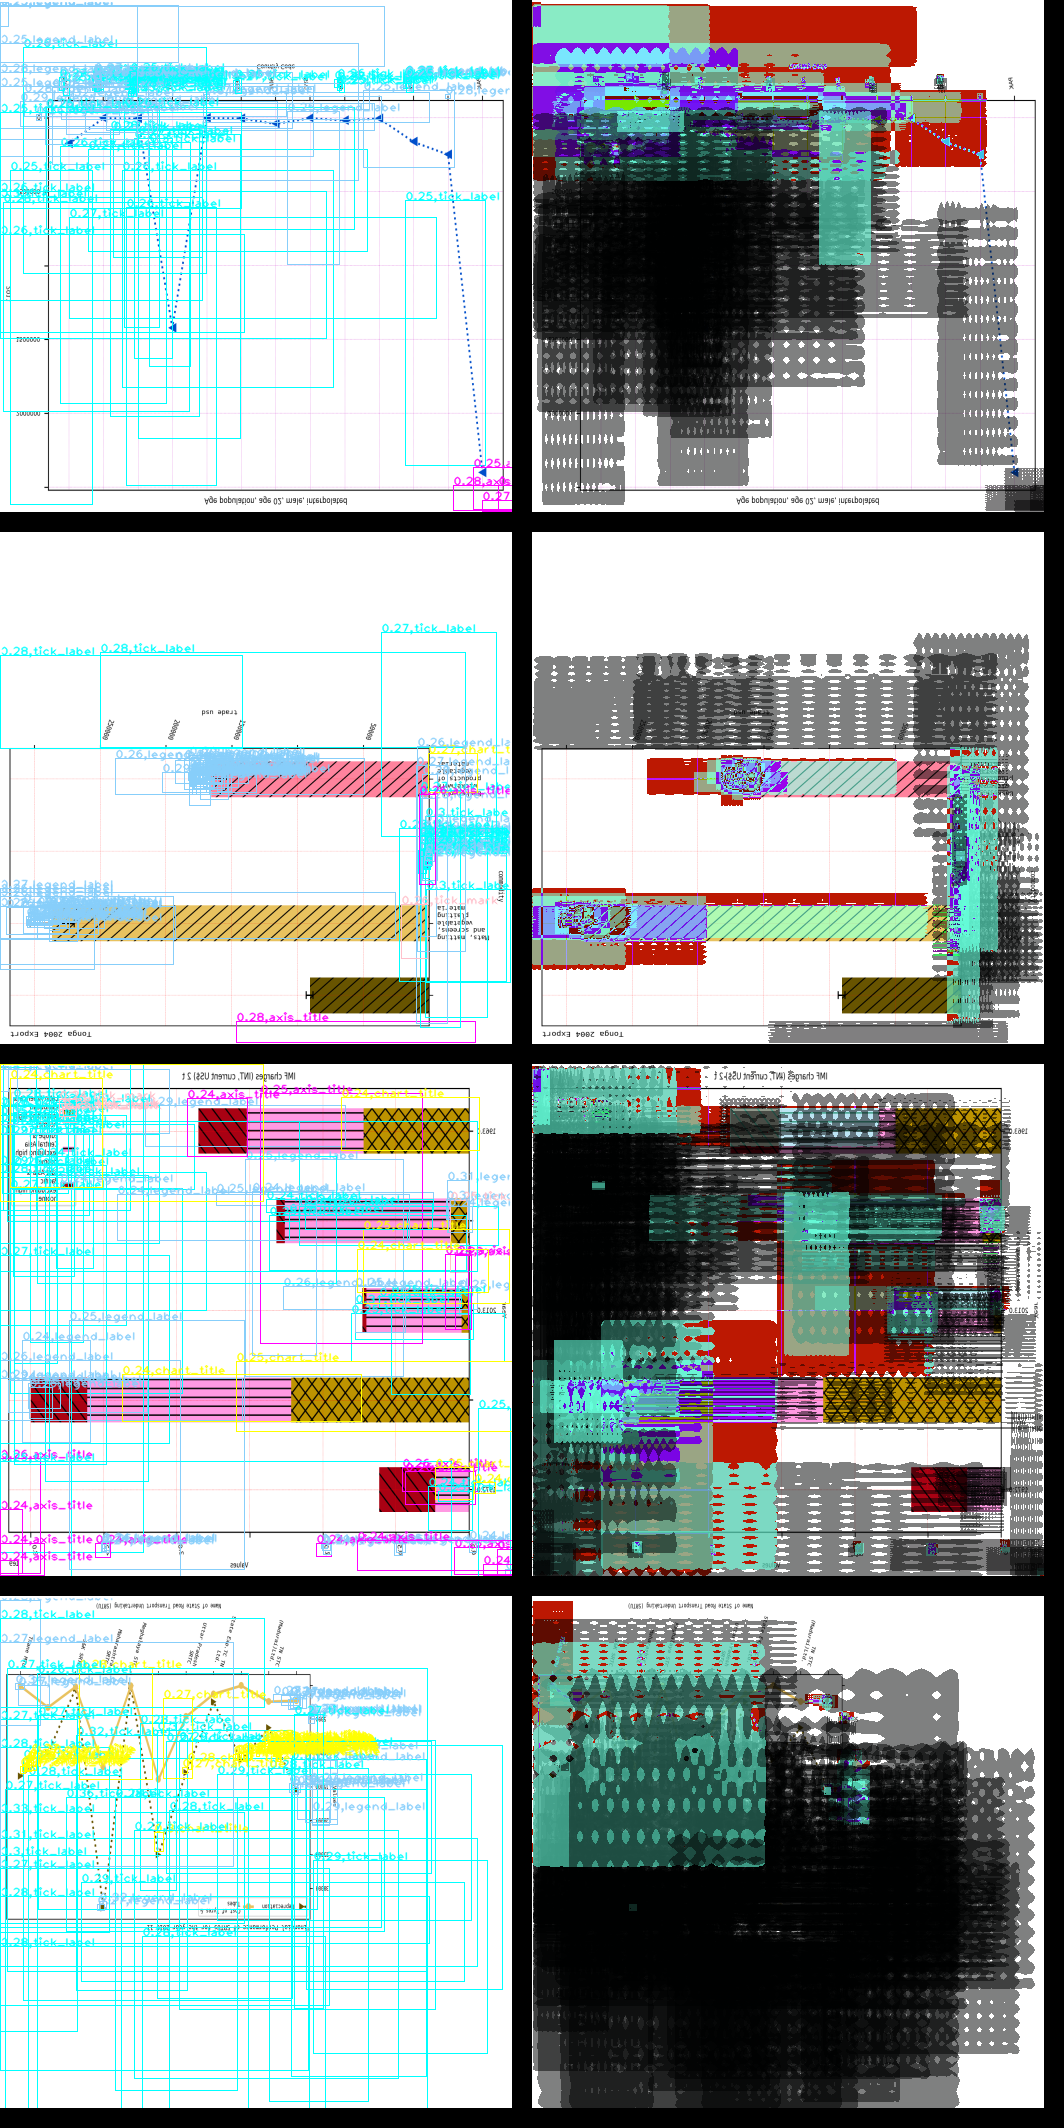
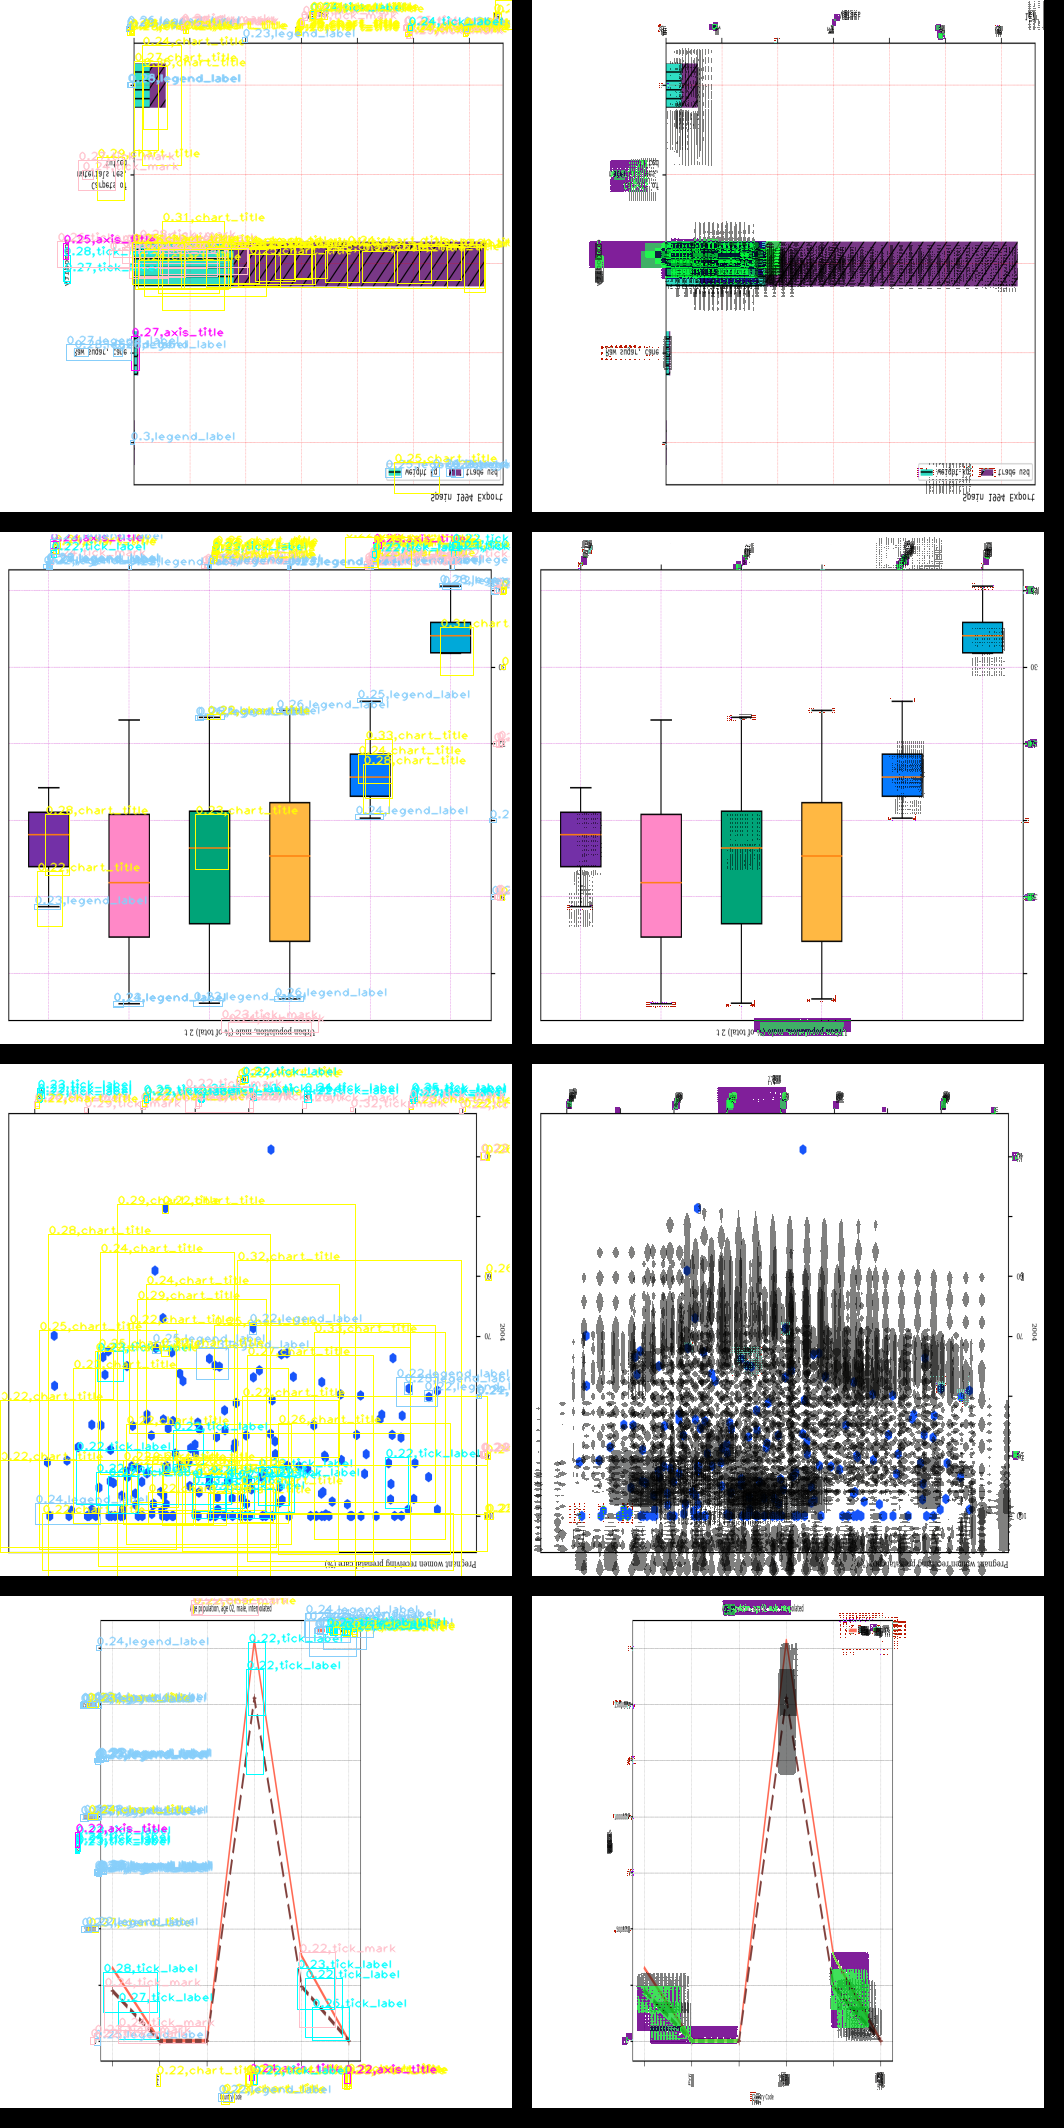
update

diff --git a/MaskRCNN/op.py b/MaskRCNN/op.py
@@ -37,9 +37,9 @@ class Operator:
         self.epoch = epoch 
         params = [p for p in self.model.parameters() if p.requires_grad]
 
-        self.optimizer = torch.optim.SGD(params, lr=self.lr,
-                                momentum=0.9, weight_decay=0.0005)
-        # self.optimizer = optim.Adam(self.model.parameters(), lr = self.lr)
+        # self.optimizer = torch.optim.SGD(params, lr=self.lr,
+        #                         momentum=0.9, weight_decay=0.0005)
+        self.optimizer = optim.Adam(self.model.parameters(), lr = self.lr)
         self.writer = writer
 
         self.train_data = ChartDataset(img_folder = img_path+"/train/", gt_folder = gt_path)
@@ -58,6 +58,13 @@ class Operator:
 
         for ep in range(self.epoch):
             self.model.train()
+
+            if ep == int(self.epoch //3):
+                self.lr = self.lr/10
+                self.optimizer = optim.Adam(self.model.parameters(), lr = self.lr)
+            if ep == int(self.epoch*2//3):
+                self.lr = self.lr/10
+                self.optimizer = optim.Adam(self.model.parameters(), lr = self.lr)
 
 
             for idi, (images, targets) in enumerate(self.dataloader):

diff --git a/MaskRCNN/utils0.py b/MaskRCNN/utils0.py
@@ -125,7 +125,7 @@ def vis(img, r_dic):
     masked_img = np.copy(img)
 
     for i in range(boxes.shape[0]):
-        if scores[i] > -0.1:
+        if scores[i] > -0.5:
             label = labels[i]
             color = color_lib[label]
             class_txt = class_id[label]
